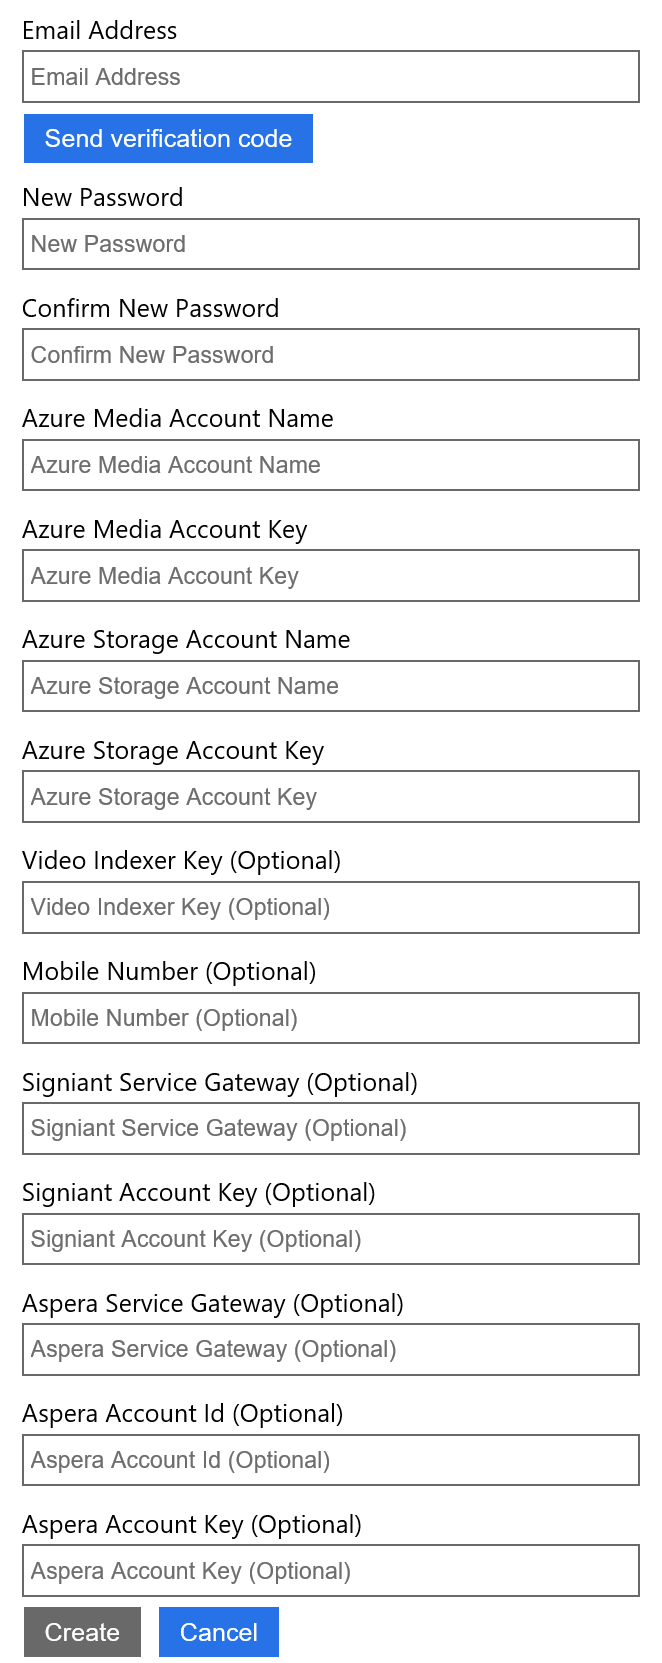
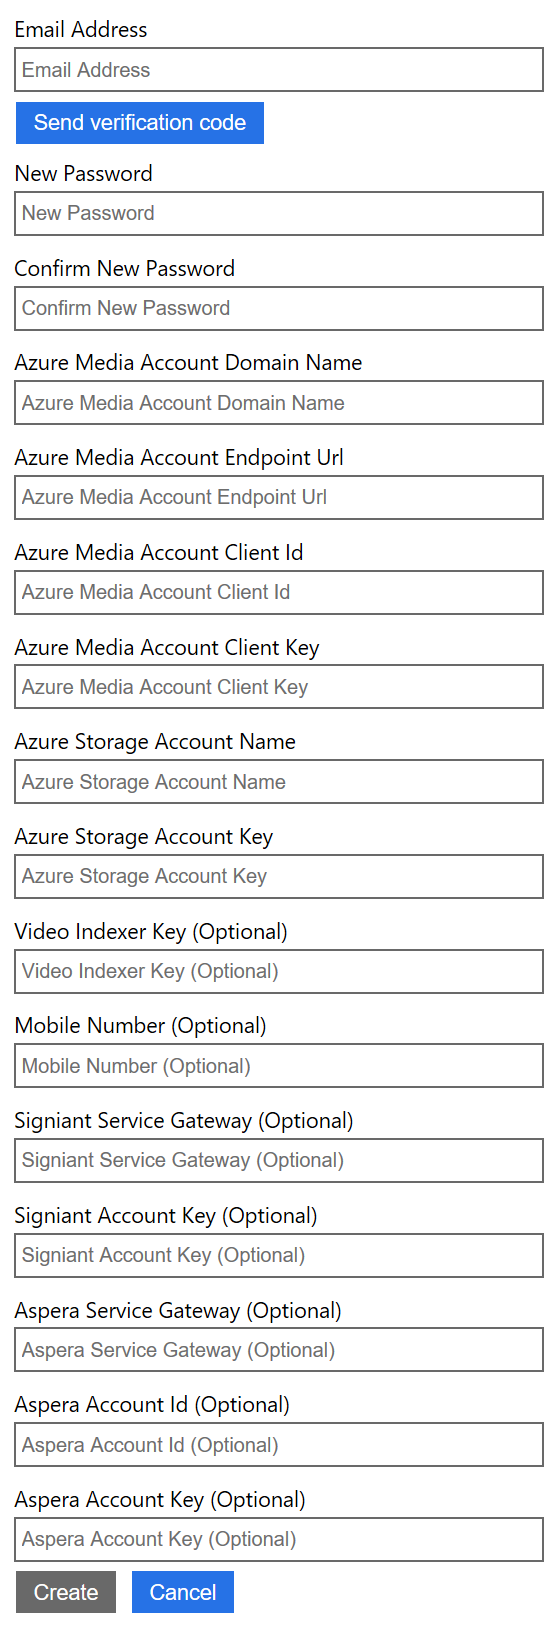
Baseline

diff --git a/PlatformServices/Clients/MediaClient.cs b/PlatformServices/Clients/MediaClient.cs
@@ -11,49 +11,27 @@ namespace AzureSkyMedia.PlatformServices
         public MediaClient(string authToken)
         {
             User authUser = new User(authToken);
-            BindContext(authUser.MediaAccountId, authUser.MediaAccountKey);
+
+            AzureAdClientSymmetricKey symmetricKey = new AzureAdClientSymmetricKey(authUser.MediaAccountClientId, authUser.MediaAccountClientKey);
+            AzureAdTokenCredentials tokenCredentials = new AzureAdTokenCredentials(authUser.MediaAccountDomainName, symmetricKey, AzureEnvironments.AzureCloudEnvironment);
+
+            BindContext(authUser.MediaAccountEndpointUrl, tokenCredentials);
         }
 
-        public MediaClient(string accountId, string accountKey)
+        public MediaClient(string accountDomain, string accountUrl, string clientId, string clientKey)
         {
-            BindContext(accountId, accountKey);
+            AzureAdClientSymmetricKey symmetricKey = new AzureAdClientSymmetricKey(clientId, clientKey);
+            AzureAdTokenCredentials tokenCredentials = new AzureAdTokenCredentials(accountDomain, symmetricKey, AzureEnvironments.AzureCloudEnvironment);
+
+            BindContext(accountUrl, tokenCredentials);
         }
 
-        private void BindContext(string accountId, string accountKey)
+        private void BindContext(string accountUrl, AzureAdTokenCredentials tokenCredentials)
         {
-            MediaServicesCredentials mediaCredentials = new MediaServicesCredentials(accountId, accountKey);
-            _media = new CloudMediaContext(mediaCredentials);
+            AzureAdTokenProvider tokenProvider = new AzureAdTokenProvider(tokenCredentials);
+            _media = new CloudMediaContext(new Uri(accountUrl), tokenProvider);
             IStorageAccount storageAccount = this.DefaultStorageAccount;
         }
-
-        //public MediaClient(string authToken)
-        //{
-        //    string settingKey = Constant.AppSettingKey.DirectoryDomainUser;
-        //    string userDomain = AppSetting.GetValue(settingKey);
-
-        //    User authUser = new User(authToken);
-        //    AzureAdTokenCredentials tokenCredentials = new AzureAdTokenCredentials(userDomain, AzureEnvironments.AzureCloudEnvironment);
-
-        //    BindContext(authUser.MediaAccountUrl, tokenCredentials);
-        //}
-
-        //public MediaClient(string accountUrl, string clientId, string clientKey)
-        //{
-        //    string settingKey = Constant.AppSettingKey.DirectoryDomainService;
-        //    string serviceDomain = AppSetting.GetValue(settingKey);
-
-        //    AzureAdClientSymmetricKey symmetricKey = new AzureAdClientSymmetricKey(clientId, clientKey);
-        //    AzureAdTokenCredentials tokenCredentials = new AzureAdTokenCredentials(serviceDomain, symmetricKey, AzureEnvironments.AzureCloudEnvironment);
-
-        //    BindContext(accountUrl, tokenCredentials);
-        //}
-
-        //private void BindContext(string accountUrl, AzureAdTokenCredentials tokenCredentials)
-        //{
-        //    AzureAdTokenProvider tokenProvider = new AzureAdTokenProvider(tokenCredentials);
-        //    _media = new CloudMediaContext(new Uri(accountUrl), tokenProvider);
-        //    IStorageAccount storageAccount = this.DefaultStorageAccount;
-        //}
 
         public IStorageAccount DefaultStorageAccount
         {

diff --git a/PlatformServices/Clients/MediaClientPublishAnalytics.cs b/PlatformServices/Clients/MediaClientPublishAnalytics.cs
@@ -43,7 +43,7 @@ namespace AzureSkyMedia.PlatformServices
         }
 
         private static void PublishAnalytics(ITask jobTask, BlobClient blobClient, CosmosClient cosmosClient,
-                                             string accountName, string accountKey, string assetId)
+                                             MediaContentPublish contentPublish, string assetId)
         {
             foreach (IAsset outputAsset in jobTask.OutputAssets)
             {
@@ -67,7 +67,14 @@ namespace AzureSkyMedia.PlatformServices
                             {
                                 string collectionId = Constant.Database.Collection.ContentInsight;
                                 JObject jsonDoc = JObject.Parse(jsonData);
-                                string documentId = cosmosClient.UpsertDocument(collectionId, jsonDoc, accountName, accountKey, assetId);
+
+                                string accountId = contentPublish.PartitionKey;
+                                string accountDomain = contentPublish.MediaAccountDomainName;
+                                string accountUrl = contentPublish.MediaAccountEndpointUrl;
+                                string clientId = contentPublish.MediaAccountClientId;
+                                string clientKey = contentPublish.MediaAccountClientKey;
+
+                                string documentId = cosmosClient.UpsertDocument(collectionId, jsonDoc, accountId, accountDomain, accountUrl, clientId, clientKey, assetId);
 
                                 string processorName = Processor.GetProcessorName(mediaProcessor.Value);
                                 outputAsset.AlternateId = string.Concat(processorName, Constant.TextDelimiter.Identifier, documentId);
@@ -97,9 +104,7 @@ namespace AzureSkyMedia.PlatformServices
                 {
                     foreach (ITask jobTask in jobTasks)
                     {
-                        string accountName = contentPublish.PartitionKey;
-                        string accountKey = contentPublish.MediaAccountKey;
-                        PublishAnalytics(jobTask, blobClient, cosmosClient, accountName, accountKey, assetId);
+                        PublishAnalytics(jobTask, blobClient, cosmosClient, contentPublish, assetId);
                     }
                 }
             }

diff --git a/PlatformServices/Entities/User.cs b/PlatformServices/Entities/User.cs
@@ -29,43 +29,43 @@
         {
             get
             {
-                return AuthToken.GetClaimValue(_authToken, Constant.UserAttribute.MediaAccountName);
+                string accountId = this.MediaAccountEndpointUrl;
+                accountId = accountId.Split('/')[2];
+                return accountId.Split('.')[0];
             }
         }
 
-        //public string MediaAccountName
-        //{
-        //    get
-        //    {
-        //        string accountId = this.MediaAccountId;
-        //        accountId = accountId.Split('/')[2];
-        //        return accountId.Split('.')[0];
-        //    }
-        //}
-
-        public string MediaAccountKey
+        public string MediaAccountDomainName
         {
             get
             {
-                return AuthToken.GetClaimValue(_authToken, Constant.UserAttribute.MediaAccountKey);
+                return AuthToken.GetClaimValue(_authToken, Constant.UserAttribute.MediaAccountDomainName);
             }
         }
 
-        //public string MediaClientId
-        //{
-        //    get
-        //    {
-        //        return AuthToken.GetClaimValue(_authToken, "extension_MediaClientId");
-        //    }
-        //}
+        public string MediaAccountEndpointUrl
+        {
+            get
+            {
+                return AuthToken.GetClaimValue(_authToken, Constant.UserAttribute.MediaAccountEndpointUrl);
+            }
+        }
 
-        //public string MediaClientKey
-        //{
-        //    get
-        //    {
-        //        return AuthToken.GetClaimValue(_authToken, "extension_MediaClientKey");
-        //    }
-        //}
+        public string MediaAccountClientId
+        {
+            get
+            {
+                return AuthToken.GetClaimValue(_authToken, Constant.UserAttribute.MediaAccountClientId);
+            }
+        }
+
+        public string MediaAccountClientKey
+        {
+            get
+            {
+                return AuthToken.GetClaimValue(_authToken, Constant.UserAttribute.MediaAccountClientKey);
+            }
+        }
 
         public string VideoIndexerKey
         {

diff --git a/PlatformServices/Constant.cs b/PlatformServices/Constant.cs
@@ -34,7 +34,7 @@ namespace AzureSkyMedia.PlatformServices
 
             public const string AppInsightsInstrumentationKey = "App.Insights.InstrumentationKey";
 
-            public const string DirectoryDomainTenant = "Directory.DomainTenant";
+            public const string DirectoryUserDomain = "Directory.UserDomain";
             public const string DirectoryDiscoveryUrl = "Directory.DiscoveryUrl";
             public const string DirectoryIssuerUrl = "Directory.IssuerUrl";
 
@@ -136,8 +136,10 @@ namespace AzureSkyMedia.PlatformServices
         {
             public const string UserId = "emails";
             public const string MobileNumber = "extension_MobileNumber";
-            public const string MediaAccountName = "extension_MediaAccountName";
-            public const string MediaAccountKey = "extension_MediaAccountKey";
+            public const string MediaAccountDomainName = "extension_MediaAccountDomainName";
+            public const string MediaAccountEndpointUrl = "extension_MediaAccountEndpointUrl";
+            public const string MediaAccountClientId = "extension_MediaAccountClientId";
+            public const string MediaAccountClientKey = "extension_MediaAccountClientKey";
             public const string VideoIndexerKey = "extension_VideoIndexerKey";
             public const string StorageAccountName = "extension_StorageAccountName";
             public const string StorageAccountKey = "extension_StorageAccountKey";

diff --git a/FunctionApp/PurgePublish.cs b/FunctionApp/PurgePublish.cs
@@ -30,12 +30,15 @@ namespace AzureSkyMedia.FunctionApp
             JObject[] documents = cosmosClient.GetDocuments(collectionId);
             foreach (JObject document in documents)
             {
-                if (document["accountId"] != null)
+                if (document["accountDomain"] != null)
                 {
-                    string accountId = document["accountId"].ToString();
-                    string accountKey = document["accountKey"].ToString();
+                    string accountDomain = document["accountDomain"].ToString();
+                    string accountUrl = document["accountUrl"].ToString();
+                    string clientId = document["clientId"].ToString();
+                    string clientKey = document["clientKey"].ToString();
                     string assetId = document["assetId"].ToString();
-                    MediaClient mediaClient = new MediaClient(accountId, accountKey);
+
+                    MediaClient mediaClient = new MediaClient(accountDomain, accountUrl, clientId, clientKey);
                     IAsset asset = mediaClient.GetEntityById(MediaEntity.Asset, assetId) as IAsset;
                     if (asset == null)
                     {

diff --git a/PlatformServices/Clients/MediaClientPublishInsights.cs b/PlatformServices/Clients/MediaClientPublishInsights.cs
@@ -31,12 +31,15 @@ namespace AzureSkyMedia.PlatformServices
                 JToken externalId = GetExternalId(index);
                 if (externalId != null)
                 {
-                    string accountKey = insightsPublish.MediaAccountKey;
+                    string accountDomain = insightsPublish.MediaAccountDomainName;
+                    string accountUrl = insightsPublish.MediaAccountEndpointUrl;
+                    string clientId = insightsPublish.MediaAccountClientId;
+                    string clientKey = insightsPublish.MediaAccountClientKey;
                     string assetId = externalId.ToString();
 
                     CosmosClient cosmosClient = new CosmosClient(true);
                     string collectionId = Constant.Database.Collection.ContentInsight;
-                    string documentId = cosmosClient.UpsertDocument(collectionId, index, accountId, accountKey, assetId);
+                    string documentId = cosmosClient.UpsertDocument(collectionId, index, accountId, accountDomain, accountUrl, clientId, clientKey, assetId);
 
                     mediaPublish = new MediaPublish
                     {

diff --git a/PlatformServices/Entities/MediaPublish.cs b/PlatformServices/Entities/MediaPublish.cs
@@ -2,11 +2,13 @@
 {
     internal class MediaContentPublish : StorageEntity
     {
-        public string MediaAccountKey { get; set; }
+        public string MediaAccountDomainName { get; set; }
 
-        //public string MediaClientId { get; set; }
+        public string MediaAccountEndpointUrl { get; set; }
 
-        //public string MediaClientKey { get; set; }
+        public string MediaAccountClientId { get; set; }
+
+        public string MediaAccountClientKey { get; set; }
 
         public string StorageAccountName { get; set; }
 
@@ -15,11 +17,13 @@
 
     internal class MediaInsightsPublish : StorageEntity
     {
-        public string MediaAccountKey { get; set; }
+        public string MediaAccountDomainName { get; set; }
 
-        //public string MediaClientId { get; set; }
+        public string MediaAccountEndpointUrl { get; set; }
 
-        //public string MediaClientKey { get; set; }
+        public string MediaAccountClientId { get; set; }
+
+        public string MediaAccountClientKey { get; set; }
 
         public string IndexerAccountKey { get; set; }
     }

diff --git a/PlatformServices/Clients/CosmosClient.cs b/PlatformServices/Clients/CosmosClient.cs
@@ -105,10 +105,13 @@ namespace AzureSkyMedia.PlatformServices
             return result;
         }
 
-        public string UpsertDocument(string collectionId, JObject jsonDoc, string accountId, string accountKey, string assetId)
+        public string UpsertDocument(string collectionId, JObject jsonDoc, string accountId, string accountDomain, string accountUrl, string clientId, string clientKey, string assetId)
         {
             jsonDoc["accountId"] = accountId;
-            jsonDoc["accountKey"] = accountKey;
+            jsonDoc["accountDomain"] = accountDomain;
+            jsonDoc["accountUrl"] = accountUrl;
+            jsonDoc["clientId"] = clientId;
+            jsonDoc["clientKey"] = clientKey;
             jsonDoc["assetId"] = assetId;
             Uri collectionUri = UriFactory.CreateDocumentCollectionUri(_databaseId, collectionId);
             RequestOptions requestOptions = collectionId == Constant.Database.Collection.ContentInsight ? GetRequestOptions(accountId) : null;

diff --git a/PlatformServices/Clients/MediaClientPublishContent.cs b/PlatformServices/Clients/MediaClientPublishContent.cs
@@ -95,10 +95,13 @@ namespace AzureSkyMedia.PlatformServices
             if (contentPublish != null)
             {
                 string accountId = contentPublish.PartitionKey;
-                string accountKey = contentPublish.MediaAccountKey;
+                string accountDomain = contentPublish.MediaAccountDomainName;
+                string accountUrl = contentPublish.MediaAccountEndpointUrl;
+                string clientId = contentPublish.MediaAccountClientId;
+                string clientKey = contentPublish.MediaAccountClientKey;
                 string jobId = contentPublish.RowKey;
 
-                MediaClient mediaClient = new MediaClient(accountId, accountKey);
+                MediaClient mediaClient = new MediaClient(accountDomain, accountUrl, clientId, clientKey);
                 IJob job = mediaClient.GetEntityById(MediaEntity.Job, jobId) as IJob;
                 if (job != null)
                 {

diff --git a/PlatformServices/Clients/MediaClientAssetProtectionKey.cs b/PlatformServices/Clients/MediaClientAssetProtectionKey.cs
@@ -95,12 +95,12 @@ namespace AzureSkyMedia.PlatformServices
             }
             if (contentProtection.ContentAuthTypeToken)
             {
-                string settingKey = Constant.AppSettingKey.DirectoryDomainTenant;
-                string domainTenant = AppSetting.GetValue(settingKey);
+                string settingKey = Constant.AppSettingKey.DirectoryUserDomain;
+                string userDomain = AppSetting.GetValue(settingKey);
 
                 settingKey = Constant.AppSettingKey.DirectoryDiscoveryUrl;
                 string discoveryUrl = AppSetting.GetValue(settingKey);
-                discoveryUrl = string.Format(discoveryUrl, domainTenant);
+                discoveryUrl = string.Format(discoveryUrl, userDomain);
 
                 settingKey = Constant.AppSettingKey.DirectoryIssuerUrl;
                 string issuerUrl = AppSetting.GetValue(settingKey);

diff --git a/PlatformServices/Workflow.cs b/PlatformServices/Workflow.cs
@@ -56,7 +56,10 @@ namespace AzureSkyMedia.PlatformServices
             {
                 PartitionKey = authUser.MediaAccountId,
                 RowKey = job.Id,
-                MediaAccountKey = authUser.MediaAccountKey,
+                MediaAccountDomainName = authUser.MediaAccountDomainName,
+                MediaAccountEndpointUrl = authUser.MediaAccountEndpointUrl,
+                MediaAccountClientId = authUser.MediaAccountClientId,
+                MediaAccountClientKey = authUser.MediaAccountClientKey,
                 StorageAccountName = storageAccount,
                 StorageAccountKey = Storage.GetAccountKey(authToken, storageAccount),
                 UserId = authUser.Id,

diff --git a/PlatformServices/Clients/MediaClientJob.cs b/PlatformServices/Clients/MediaClientJob.cs
@@ -19,7 +19,10 @@ namespace AzureSkyMedia.PlatformServices
             {
                 PartitionKey = authUser.MediaAccountId,
                 RowKey = indexId,
-                MediaAccountKey = authUser.MediaAccountKey,
+                MediaAccountDomainName = authUser.MediaAccountDomainName,
+                MediaAccountEndpointUrl = authUser.MediaAccountEndpointUrl,
+                MediaAccountClientId = authUser.MediaAccountClientId,
+                MediaAccountClientKey = authUser.MediaAccountClientKey,
                 IndexerAccountKey = authUser.VideoIndexerKey,
             };
 
